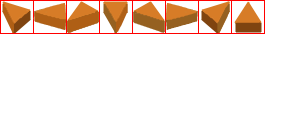
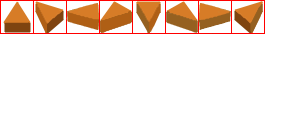
Isometric view

Changed region(s): [[0.0, 0.0, 0.9, 0.2812]]

diff --git a/auroral/renderer.py b/auroral/renderer.py
@@ -24,9 +24,11 @@ def load_resources(directory: str, config_file: str, theme: str):
         "tilemap": pygame.image.load(theme_directory + 'tilemap.png'),
         "objects": pygame.image.load(theme_directory + 'objects.png'),
         "agents": pygame.image.load(directory + 'agents.png'),
-        "water": pygame.image.load(directory + 'water.png'),
+        "water": pygame.image.load(theme_directory + 'water.png'),
         "projectiles": pygame.image.load(directory + 'projectiles.png'),
     }
+    with open(theme_directory + "parameters.json") as f:
+        parameters = json.load(f)
     with open(config_file) as f:
         content = json.load(f)
     matches = {
@@ -36,7 +38,7 @@ def load_resources(directory: str, config_file: str, theme: str):
         "agents": content["agent_image"],
         "projectiles": content["projectile_image"],
     }
-    return {"images": images, "matches": matches}
+    return {"images": images, "matches": matches, "parameters": parameters}
 
 
 def get_agent_orientation(angle: float, N: float) -> tuple:
@@ -66,12 +68,11 @@ def render(
         resources,
         dimension,
         camera: list = [0, 0],
-        N: int = 32,
         delta: float = 0.0
     ):
     global period
     period += delta
-
+    N = resources["parameters"]["tile_dimension"]
     X_MAX = len(env.tilemap[0])
     Y_MAX = len(env.tilemap)
     col_min = int(camera[0]) - int(dimension[1] / 2)
@@ -124,9 +125,8 @@ def render(
         screen.blit(
             resources["images"]["agents"],
             (agent.position.x * N - o + x_o, agent.position.y * N - o + y_o),
-            (get_agent_orientation(agent.get_rotation(), N) + 1, iy + 1, N, N)
+            (get_agent_orientation(agent.get_rotation(), 32) + 1, iy + 1, 32, 32)
         )
-        get_agent_orientation(agent.get_rotation(), N)
     # Projectiles
     for p in env.projectiles:
         ix = resources["matches"]["projectiles"][p.name][1]
@@ -142,7 +142,133 @@ def render(
             pygame.transform.rotate(s, p.get_rotation()),
             (p.position.x * N + x_o, p.position.y * N + y_o),
         )
-    # Game information.
+
+
+def render_isometric(env: environment.Environment,
+        screen,
+        resources,
+        dimension,
+        camera: list = [0, 0],
+        delta: float = 0.0
+    ):
+    w, z = len(env.tilemap), len(env.tilemap[0])
+    assert w == z, f"Non-square isometric map. Dimensions: {w} x {z}."
+    global period
+    period += delta
+    N = resources["parameters"]["tile_dimension"]
+    M = resources["parameters"]["isometric_offset"]
+    AGENT_N = 32
+    X_MAX = len(env.tilemap)
+    x_o = (camera[1] * N - camera[0] * N + dimension[0]) / 2
+    x_o = clamp(x_o, 0.0, X_MAX * N / 2)
+    y_o = (-1 * camera[1] * M - camera[0] * M + dimension[0]) / 2
+    y_o = clamp(y_o, -1 * X_MAX * M / 4, 0.0)
+    D = len(env.tilemap)
+    # Display the floor
+    for diagonal in range(D * 2 + 1):
+        row = diagonal
+        col = 0
+        while True:
+            if row >= D:
+                row -= 1
+                col += 1
+                continue
+            if row < 0 or col >= D:
+                break
+            x = (col - row) / 2 * N
+            y = diagonal * M / 2
+            # Tilemap
+            v = str(env.tilemap[row][col])
+            if v == resources["matches"]["tiles"]["water"]:
+                iy = 0
+                ix = int(period * 6 % 5)
+                image = resources["images"]["water"]
+            else:
+                ix = resources["matches"]["tilemap"][v][1]
+                iy = resources["matches"]["tilemap"][v][0]
+                image = resources["images"]["tilemap"]
+            screen.blit(
+                image,
+                (x + x_o, y + y_o),
+                (ix + (ix * N) + 1, iy + (iy * N) + 1, N, N)
+            )
+            # Items
+            v = str(env.objects[row][col])
+            if v in resources["matches"]["objects"]:
+                ix = resources["matches"]["objects"][v][1]
+                iy = resources["matches"]["objects"][v][0]
+                x = (col - row) / 2 * N
+                y = diagonal * M / 2
+                screen.blit(
+                    resources["images"]["objects"],
+                    (x + x_o, y + y_o),
+                    (ix + (ix * N) + 1, iy + (iy * N) + 1, N, N)
+                )
+            # Indices
+            row -= 1
+            col += 1
+    # Display walls and objects
+    for diagonal in range(D * 2 + 1):
+        row = diagonal
+        col = 0
+        while True:
+            if row >= D:
+                row -= 1
+                col += 1
+                continue
+            if row < 0 or col >= D:
+                break
+            x = (col - row) / 2 * N
+            y = diagonal * M / 2
+            # Tilemap
+            if env.collisions[row][col] >= 2:
+                v = str(env.tilemap[row][col])
+                ix = resources["matches"]["tilemap"][v][1]
+                iy = resources["matches"]["tilemap"][v][0]
+                screen.blit(
+                    resources["images"]["tilemap"],
+                    (x + x_o, y + y_o),
+                    (ix + (ix * N) + 1, iy + (iy * N) + 1, N, N)
+                )
+            # Agents
+            for name, agent in env.agents:
+                p = agent.position.y + agent.position.x - 0.75
+                if p <= diagonal and p + 1 > diagonal:
+                    ix = resources["matches"]["agents"][name][1]
+                    iy = resources["matches"]["agents"][name][0]
+                    x = (-agent.position.y + agent.position.x + 0.5) * N / 2
+                    y = (agent.position.x + agent.position.y + 0.5) * M / 2
+                    screen.blit(
+                        resources["images"]["agents"],
+                        (x + x_o, y + y_o),
+                        (get_agent_orientation(agent.get_rotation(), AGENT_N) + 1, iy + 1, AGENT_N, AGENT_N)
+                    )
+            # Projectiles
+            for projectile in env.projectiles:
+                p = projectile.position.y + projectile.position.x - 1
+                if p <= diagonal and p + 1 > diagonal:
+                    ix = resources["matches"]["projectiles"][projectile.name][1]
+                    iy = resources["matches"]["projectiles"][projectile.name][0]
+                    s = pygame.Surface((N, N), pygame.SRCALPHA)
+                    x = (-projectile.position.y + projectile.position.x + D) * N / 2
+                    y = (projectile.position.x + projectile.position.y + D + 1) * M / 2
+                    P = 2
+                    s.blit(
+                        resources["images"]["projectiles"],
+                        (0, 0),
+                        (ix + (ix * AGENT_N) + (P / 2), iy + (iy * AGENT_N) + (P / 2), AGENT_N - P, AGENT_N - P)
+                    )
+                    screen.blit(
+                        pygame.transform.rotate(s, projectile.get_rotation() + 45),
+                        (x + x_o, y + y_o, 16, 16),
+                    )
+            # Indices
+            row -= 1
+            col += 1
+
+
+
+def render_agent_state(env, screen):
     pygame.draw.rect(screen, BLACK, (6, 6, 128, 16))
     pygame.draw.rect(screen, BLUE, (8, 8, env.get_player().magic * 124, 12))
     pygame.draw.rect(screen, BLACK, (6, 24, 128, 16))
@@ -150,9 +276,7 @@ def render(
 
 
 def render_debug(
-        env: environment.Environment,
         screen,
-        dimension,
         delta,
         delta_buffer,
         font

diff --git a/auroral/game.py b/auroral/game.py
@@ -32,10 +32,9 @@ if DEBUG:
     font = pygame.font.SysFont('Comic Sans MS', 24)
     delta_buffer = deque(maxlen=500)
 
-ENVIRONMENT_FILE = "../assets/levels/test.json"
+ENVIRONMENT_FILE = "../assets/levels/isometric_test.json"
 MATCHES_FILE = "../assets/matches.json"
-TILE_SIZE = 32
-SCREEN_DIMENSIONS = (TILE_SIZE * 16, TILE_SIZE * 16)
+SCREEN_DIMENSIONS = (512, 512)
 
 
 tilemap, objects, agents, theme = environment.load(ENVIRONMENT_FILE)
@@ -77,26 +76,26 @@ while True:
                 direction.y -= 1.0
         player.direction = direction.copy()
         player.direction.normalize()
+        player.direction.rotate(-45)
     now = time.time()
     delta = now - ti
     ti = now
     env.update(delta)
     position = env.get_player().position
-    renderer.render(
+    screen.fill((50, 50, 50))
+    renderer.render_isometric(
         env,
         screen,
         resources,
         SCREEN_DIMENSIONS,
         (position.x, position.y),
-        TILE_SIZE,
         delta
     )
+    renderer.render_agent_state(env, screen)
     if DEBUG:
         delta_buffer.append(delta)
         renderer.render_debug(
-            env,
             screen,
-            SCREEN_DIMENSIONS,
             delta,
             delta_buffer,
             font

diff --git a/auroral/environment.py b/auroral/environment.py
@@ -9,7 +9,7 @@ File information:
 
 import json
 import numpy as np
-from math import atan, pi
+from math import atan, pi, sin, cos
 
 
 def load(level_filename: str) -> tuple:
@@ -56,6 +56,12 @@ class Vector():
     def __repr__(self):
         return f"<{self.x}, {self.y}>"
 
+    def rotate(self, r):
+        r = r * pi / 180
+        x, y = self.x, self.y
+        self.x = cos(r) * x - sin(r) * y
+        self.y = sin(r) * x + cos(r) * y
+
 
 class Agent:
     def __init__(self, properties):
@@ -95,7 +101,7 @@ class PlayerAgent(Agent):
     def __init__(self, properties):
         Agent.__init__(self, properties)
         self.MAGIC_SPEED = 0.05
-        self.speed = 4.0
+        self.speed = 6.0
 
     def fire(self):
         if self.magic > 0.0:
@@ -165,8 +171,10 @@ class Environment:
                 # Normal tiles
                 if self.tilemap[i][j] in ('0', '1'):
                     self.collisions[i][j] = 0
-                else:
+                elif self.tilemap[i][j] == 2:
                     self.collisions[i][j] = 1
+                else:
+                    self.collisions[i][j] = 2
                 # Bridges
                 if self.tilemap[i][j] == "2":
                     if self.objects[i][j] in ("1", "2"):
